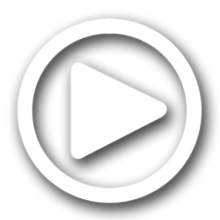
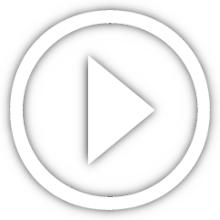
fix

diff --git a/css/stylish-portfolio.min.css b/css/stylish-portfolio.min.css
@@ -2,4 +2,4 @@
  * Start Bootstrap - Stylish Portfolio v5.0.7 (https://startbootstrap.com/template-overviews/stylish-portfolio)
  * Copyright 2013-2021 Start Bootstrap
  * Licensed under MIT (https://github.com/BlackrockDigital/startbootstrap-stylish-portfolio/blob/master/LICENSE)
- */@font-face{font-family:"Brutal Type";src:url("../fonts/Brutal Type.eot");src:url("../fonts/Brutal Type.eot?#iefix") format("embedded-opentype"),url("../fonts/Brutal Type.woff2") format("woff2"),url("../fonts/Brutal Type.woff") format("woff"),url("../fonts/Brutal Type.ttf") format("truetype"),url("../fonts/Brutal Type.svg#Brutal Type") format("svg")}body,html{width:100%;height:100%}body{font-family:'Brutal Type';background-color:#222}.btn-xl{padding:1.25rem 2.5rem}.content-section{padding-top:7.5rem;padding-bottom:7.5rem;position:relative;background-color:#fff}.content-section-heading h2{font-size:3rem}.content-section-heading h3{font-size:1rem;text-transform:uppercase}h1,h2,h3,h4,h5,h6{font-weight:900}.text-faded{color:rgba(255,255,255,.7)}.map{height:30rem}@media (max-width:992px){.map{height:75%}}.map iframe{pointer-events:none}.scroll-to-top{position:fixed;right:15px;bottom:15px;display:none;width:50px;height:50px;text-align:center;color:#fff;background:rgba(52,58,64,.5);line-height:45px}.scroll-to-top:focus,.scroll-to-top:hover{color:#fff}.scroll-to-top:hover{background:#343a40}.scroll-to-top i{font-weight:800}video{position:fixed;top:0;z-index:0;min-height:100vh;min-width:100%}.visible{display:initial!important;transition:ease 3s}.masthead{position:relative;display:table;width:100%;height:auto;padding-top:8rem;padding-bottom:8rem;overflow:hidden;color:#fff;height:100vh}.masthead h1{font-size:2.5rem;padding:0;font-weight:300;-webkit-animation:5s fadeIn;animation:5s fadeIn;-webkit-animation-fill-mode:forwards;animation-fill-mode:forwards;opacity:0}.masthead .logo img{width:250px;-webkit-animation:2.5s fadeIn;animation:2.5s fadeIn;-webkit-animation-fill-mode:forwards;animation-fill-mode:forwards;opacity:0}.masthead .scroll-trigger{position:absolute;left:0;right:0;bottom:0}.masthead .scroll-trigger p{font-size:24px;font-weight:300}.masthead .js-scroll-trigger{transition:all .2s ease,visibility 0s;border-radius:0;background:rgba(247,195,49,.8);width:51px;height:51px;display:inline-block;color:#000;padding-top:15px}.masthead .js-scroll-trigger:hover{color:#fff;padding-top:20px}@media (min-width:992px){.masthead h1{font-size:4rem;text-align:left;width:50%}.masthead .logo{text-align:right}.masthead .top-border{width:25%;border-top:3px solid;-webkit-animation:5s fadeIn;animation:5s fadeIn;-webkit-animation-fill-mode:forwards;animation-fill-mode:forwards;opacity:0}}@-webkit-keyframes fadeIn{50%{opacity:0}100%{opacity:1}}@keyframes fadeIn{50%{opacity:0}100%{opacity:1}}h1,h2,h3{font-weight:300}h2{font-size:36px;display:inline-block;margin-bottom:30px}.heading-border{border-bottom:10px solid rgba(247,195,49,.7);display:block;width:80%;margin-top:-14px}#buro{padding-bottom:0}#buro .bg-image{background-image:url(../img/snapshot.png);background-size:cover;background-position:center center}#buro .text-box{background:#fff;opacity:.9;font-size:16px;padding:70px 30px 70px 30px}.play-button{margin:auto;display:block;width:220px;padding:50% 0}#map{padding:3rem 0}#map .section-text{margin:7rem 0}@media (max-width:768px){#map .section-text{margin-top:15rem;margin-bottom:3rem}}#map .container{background-image:url(../img/map.png);background-size:70%;background-position:left;background-repeat:no-repeat}@media (max-width:768px){#map .container{background-size:100%;background-position-y:2rem}}#map .container img{height:40px;display:inline-block;margin:0 8px}#sidebar-wrapper{position:fixed;z-index:2;right:0;width:250px;height:100%;transition:all .4s ease 0s;transform:translateX(250px);background:rgba(85,95,99,.7);border-left:1px solid rgba(255,255,255,.1)}.sidebar-nav{position:absolute;top:0;width:250px;margin:0;padding:0;list-style:none;margin-top:100px;text-transform:uppercase;font-size:22px}.sidebar-nav li.sidebar-nav-item a{display:block;text-decoration:none;color:#fff;padding:15px 45px}.sidebar-nav li a:hover{text-decoration:none;color:#f3c331}.sidebar-nav li a:active,.sidebar-nav li a:focus{text-decoration:none}.sidebar-nav>.sidebar-brand{font-size:1.2rem;background:rgba(52,58,64,.1);height:80px;line-height:50px;padding-top:15px;padding-bottom:15px;padding-left:15px}.sidebar-nav>.sidebar-brand a{color:#fff}.sidebar-nav>.sidebar-brand a:hover{color:#fff;background:0 0}#sidebar-wrapper.active{right:250px;width:250px;transition:all .4s ease 0s}.menu-toggle{position:fixed;right:4px;top:4px;width:50px;height:50px;text-align:center;color:#fff;line-height:50px;z-index:1040}.menu-toggle:focus,.menu-toggle:hover{color:#fff}.social-icons{position:fixed;right:15px;width:50px;height:50px;text-align:center;color:#fff;background:rgba(52,58,64,.5);line-height:50px;z-index:5}.social-icons.instagram{bottom:125px}.social-icons.linkedin{bottom:70px}.social-icons:hover{background:#343a40}.social-icons:focus,.social-icons:hover{color:#fff}.language-menu{position:fixed;right:60px;top:17px;color:#fff;z-index:2000;list-style:none;color:#fff}.language-menu a{color:inherit}.language-menu a:hover{color:inherit}.language-menu a:active{color:inherit}.language-menu a.current{color:rgba(247,195,49,.8)}#kompetenzen{padding-bottom:1rem}#kompetenzen a,#kompetenzen a:hover{text-decoration:none;color:#000}#kompetenzen h4{font-size:20px;font-weight:900}#kompetenzen .description{margin-top:60px}#kompetenzen .description h4{font-size:1rem}#kompetenzen p{font-weight:300}#kompetenzen .service-icon+h4{font-size:1.2rem;transition:all .2s}#kompetenzen .collapsed .service-icon+h4{font-size:1rem;margin-bottom:12px}#kompetenzen .service-icon+h4+.underline{border-bottom:10px solid #f9d56e;width:100px;display:inline-block;transition:all .2s}#kompetenzen .collapsed .service-icon+h4+.underline{width:0}#kompetenzen .service-icon.modellierung{background-image:url(../img/modellierung.png)}#kompetenzen .service-icon.research{background-image:url(../img/management.png)}#kompetenzen .service-icon.innovation{background-image:url(../img/innovation.png)}#kompetenzen .accordion{margin-top:30px;margin-bottom:50px}@media screen and (min-width:768px){#kompetenzen .accordion .description{width:300%}#kompetenzen #collapseTwo{margin-left:-100%}#kompetenzen #collapseThree{margin-left:-200%}}@-webkit-keyframes pulse{0%{-webkit-transform:scale(1)}50%{-webkit-transform:scale(.85);opacity:1}100%{-webkit-transform:scale(1)}}@keyframes pulse{0%{transform:scale(1)}50%{transform:scale(.85);opacity:1}100%{transform:scale(1)}}.service-icon{background-color:#fff;color:#000;display:block;line-height:7.5rem;font-size:2.25rem;border:5px solid #000;padding:28px;width:200px;background-size:130px;height:200px;background-repeat:no-repeat;background-position:center center;transition:transform .5s ease}.service-icon img{width:100%}.collapsed .service-icon:hover{-webkit-animation:pulse .3s ease-in-out;animation:pulse .3s ease-in-out}.callout{padding:15rem 0;background:linear-gradient(90deg,rgba(255,255,255,.1) 0,rgba(255,255,255,.1) 100%),url(../img/bg-callout.jpg);background-position:center center;background-repeat:no-repeat;background-size:cover}.callout h2{font-size:3.5rem;font-weight:700;display:block;max-width:30rem}#referenzen{padding-top:7rem;padding-bottom:5em}.portfolio-item{display:block;position:relative;overflow:hidden;max-width:530px;margin:auto auto 1rem}.portfolio-item .caption{z-index:1}.portfolio-item .caption .caption-content{color:#000;padding:15px 0}.portfolio-item .caption .caption-content h2{font-size:22px;font-weight:900;margin-bottom:0}.portfolio-item .caption .caption-content p{font-weight:400;font-size:14px}@media (min-width:992px){.portfolio-item{max-width:none;margin:0}.portfolio-item .caption .caption-content{transition:opacity .25s}}.portfolio-item:hover{text-decoration:none!important}.modal-header{border-bottom:none}.modal-header .close{font-size:3rem;font-weight:100;line-height:1;color:#fff;text-shadow:0 1px 0 #000}.modal-open .modal{padding-right:0!important;background-color:#0d2130!important}.modal-dialog{margin:0;max-width:none;background-color:#0d2130!important;width:100%;top:0;bottom:0;position:absolute}.modal-backdrop{background-color:#0d2130!important}.modal-content{background-color:#0d2130!important;background-clip:initial;border:none;border-radius:0;color:#fff;height:100%}.carousel-inner{width:80%;margin:auto;margin-bottom:50px}.carousel-control-next,.carousel-control-prev{width:10%;font-size:1.5rem}.carousel-indicators{bottom:-50px}.modal-body .description h4{font-size:14px;text-transform:uppercase;font-weight:900}.modal-body .description p{font-size:16px;font-weight:100}.modal-body .description hr{margin:1rem 0;border:3px solid rgba(255,255,255,.5);width:50px}.webcam{height:100px;width:100px;background-color:#e8e100;display:block;border-radius:50%;position:absolute;text-align:center;box-shadow:0 0 10px rgba(10,10,10,.2);z-index:10}.webcam span{display:table-cell;height:100px;vertical-align:middle;transform:rotate(12deg);text-decoration:underline;color:#343436}footer.footer{padding-top:2rem;padding-bottom:2rem;position:relative;background-color:#808f95}footer.footer h2{text-transform:uppercase}footer.footer .address,footer.footer .phone{text-align:center}footer.footer .social-link{display:block;height:4rem;width:4rem;line-height:4.3rem;font-size:1.5rem;background-color:#1d809f;transition:background-color .15s ease-in-out;box-shadow:0 3px 3px 0 rgba(0,0,0,.1)}footer.footer .social-link:hover{background-color:#155d74;text-decoration:none}@media (min-width:576px){footer.footer{font-weight:300}footer.footer .address{text-align:right}footer.footer .phone{text-align:left}}a{color:#1d809f}a:active,a:focus,a:hover{color:#155d74}.btn-primary{background-color:#1d809f!important;border-color:#1d809f!important;color:#fff!important}.btn-primary:active,.btn-primary:focus,.btn-primary:hover{background-color:#155d74!important;border-color:#155d74!important}.btn-secondary{background-color:#ecb807!important;border-color:#ecb807!important;color:#fff!important}.btn-secondary:active,.btn-secondary:focus,.btn-secondary:hover{background-color:#ba9106!important;border-color:#ba9106!important}.btn-dark{color:#fff!important}.btn{box-shadow:0 3px 3px 0 rgba(0,0,0,.1);font-weight:700}.bg-primary{background-color:#1d809f!important}.bg-dark{background-color:#808f95!important}.text-primary{color:#1d809f!important}.text-secondary{color:#ecb807!important}.collapsing{transition:none;height:initial}
+ */@font-face{font-family:"Brutal Type";src:url("../fonts/Brutal Type.eot");src:url("../fonts/Brutal Type.eot?#iefix") format("embedded-opentype"),url("../fonts/Brutal Type.woff2") format("woff2"),url("../fonts/Brutal Type.woff") format("woff"),url("../fonts/Brutal Type.ttf") format("truetype"),url("../fonts/Brutal Type.svg#Brutal Type") format("svg")}body,html{width:100%;height:100%}body{font-family:'Brutal Type';background-color:#222}.btn-xl{padding:1.25rem 2.5rem}.content-section{padding-top:7.5rem;padding-bottom:7.5rem;position:relative;background-color:#fff}.content-section-heading h2{font-size:3rem}.content-section-heading h3{font-size:1rem;text-transform:uppercase}h1,h2,h3,h4,h5,h6{font-weight:900}.text-faded{color:rgba(255,255,255,.7)}.map{height:30rem}@media (max-width:992px){.map{height:75%}}.map iframe{pointer-events:none}.scroll-to-top{position:fixed;right:15px;bottom:15px;display:none;width:50px;height:50px;text-align:center;color:#fff;background:rgba(52,58,64,.5);line-height:45px}.scroll-to-top:focus,.scroll-to-top:hover{color:#fff}.scroll-to-top:hover{background:#343a40}.scroll-to-top i{font-weight:800}video{position:fixed;top:0;z-index:0;min-height:100vh;min-width:100%}.visible{display:initial!important;transition:ease 3s}.masthead{position:relative;display:table;width:100%;height:auto;padding-top:8rem;padding-bottom:8rem;overflow:hidden;color:#fff;height:100vh}.masthead h1{font-size:2.5rem;padding:0;font-weight:300;-webkit-animation:5s fadeIn;animation:5s fadeIn;-webkit-animation-fill-mode:forwards;animation-fill-mode:forwards;opacity:0}.masthead .logo img{width:250px;-webkit-animation:2.5s fadeIn;animation:2.5s fadeIn;-webkit-animation-fill-mode:forwards;animation-fill-mode:forwards;opacity:0}.masthead .scroll-trigger{position:absolute;left:0;right:0;bottom:0}.masthead .scroll-trigger p{font-size:24px;font-weight:300}.masthead .js-scroll-trigger{transition:all .2s ease,visibility 0s;border-radius:0;background:rgba(247,195,49,.8);width:51px;height:51px;display:inline-block;color:#000;padding-top:15px}.masthead .js-scroll-trigger:hover{color:#fff;padding-top:20px}@media (min-width:992px){.masthead h1{font-size:4rem;text-align:left;width:50%}.masthead .logo{text-align:right}.masthead .top-border{width:25%;border-top:3px solid;-webkit-animation:5s fadeIn;animation:5s fadeIn;-webkit-animation-fill-mode:forwards;animation-fill-mode:forwards;opacity:0}}@-webkit-keyframes fadeIn{50%{opacity:0}100%{opacity:1}}@keyframes fadeIn{50%{opacity:0}100%{opacity:1}}h1,h2,h3{font-weight:300}h2{font-size:36px;display:inline-block;margin-bottom:30px}.heading-border{border-bottom:10px solid rgba(247,195,49,.7);display:block;width:80%;margin-top:-14px}#buro{padding-bottom:0}#buro .bg-image{background-image:url(../img/snapshot.png);background-size:cover;background-position:center center}#buro .text-box{background:#fff;opacity:.9;font-size:16px;padding:70px 30px 70px 30px}.play-button{margin:auto;display:block;width:150px;padding:10% 0;opacity:.8}.play-button img{width:150px}.play-button:hover{opacity:1}@media (min-width:992px){.play-button{padding:75% 0}}#map{padding:3rem 0}#map .section-text{margin:7rem 0}@media (max-width:768px){#map .section-text{margin-top:15rem;margin-bottom:3rem}}#map .container{background-image:url(../img/map.png);background-size:70%;background-position:left;background-repeat:no-repeat}@media (max-width:768px){#map .container{background-size:100%;background-position-y:2rem}}#map .container img{height:40px;display:inline-block;margin:0 8px}#sidebar-wrapper{position:fixed;z-index:2;right:0;width:250px;height:100%;transition:all .4s ease 0s;transform:translateX(250px);background:rgba(85,95,99,.7);border-left:1px solid rgba(255,255,255,.1)}.sidebar-nav{position:absolute;top:0;width:250px;margin:0;padding:0;list-style:none;margin-top:100px;text-transform:uppercase;font-size:22px}.sidebar-nav li.sidebar-nav-item a{display:block;text-decoration:none;color:#fff;padding:15px 45px}.sidebar-nav li a:hover{text-decoration:none;color:#f3c331}.sidebar-nav li a:active,.sidebar-nav li a:focus{text-decoration:none}.sidebar-nav>.sidebar-brand{font-size:1.2rem;background:rgba(52,58,64,.1);height:80px;line-height:50px;padding-top:15px;padding-bottom:15px;padding-left:15px}.sidebar-nav>.sidebar-brand a{color:#fff}.sidebar-nav>.sidebar-brand a:hover{color:#fff;background:0 0}#sidebar-wrapper.active{right:250px;width:250px;transition:all .4s ease 0s}.menu-toggle{position:fixed;right:4px;top:4px;width:50px;height:50px;text-align:center;color:#fff;line-height:50px;z-index:1040}.menu-toggle:focus,.menu-toggle:hover{color:#fff}.social-icons{position:fixed;right:15px;width:50px;height:50px;text-align:center;color:#fff;background:rgba(52,58,64,.5);line-height:50px;z-index:5}.social-icons.instagram{bottom:125px}.social-icons.linkedin{bottom:70px}.social-icons:hover{background:#343a40}.social-icons:focus,.social-icons:hover{color:#fff}.language-menu{position:fixed;right:60px;top:17px;color:#fff;z-index:2000;list-style:none;color:#fff}.language-menu a{color:inherit}.language-menu a:hover{color:inherit}.language-menu a:active{color:inherit}.language-menu a.current{color:rgba(247,195,49,.8)}#kompetenzen{padding-bottom:1rem}#kompetenzen a,#kompetenzen a:hover{text-decoration:none;color:#000}#kompetenzen h4{font-size:20px;font-weight:900}#kompetenzen .description{margin-top:60px}#kompetenzen .description h4{font-size:1rem}#kompetenzen p{font-weight:300}#kompetenzen .service-icon+h4{font-size:1.2rem;transition:all .2s}#kompetenzen .collapsed .service-icon+h4{font-size:1rem;margin-bottom:12px}#kompetenzen .service-icon+h4+.underline{border-bottom:10px solid #f9d56e;width:100px;display:inline-block;transition:all .2s}#kompetenzen .collapsed .service-icon+h4+.underline{width:0}#kompetenzen .service-icon.modellierung{background-image:url(../img/modellierung.png)}#kompetenzen .service-icon.research{background-image:url(../img/management.png)}#kompetenzen .service-icon.innovation{background-image:url(../img/innovation.png)}#kompetenzen .accordion{margin-top:30px;margin-bottom:50px}@media screen and (min-width:768px){#kompetenzen .accordion .description{width:300%}#kompetenzen #collapseTwo{margin-left:-100%}#kompetenzen #collapseThree{margin-left:-200%}}@-webkit-keyframes pulse{0%{-webkit-transform:scale(1)}50%{-webkit-transform:scale(.85);opacity:1}100%{-webkit-transform:scale(1)}}@keyframes pulse{0%{transform:scale(1)}50%{transform:scale(.85);opacity:1}100%{transform:scale(1)}}.service-icon{background-color:#fff;color:#000;display:block;line-height:7.5rem;font-size:2.25rem;border:5px solid #000;padding:28px;width:200px;background-size:130px;height:200px;background-repeat:no-repeat;background-position:center center;transition:transform .5s ease}.service-icon img{width:100%}.collapsed .service-icon:hover{-webkit-animation:pulse .3s ease-in-out;animation:pulse .3s ease-in-out}.callout{padding:15rem 0;background:linear-gradient(90deg,rgba(255,255,255,.1) 0,rgba(255,255,255,.1) 100%),url(../img/bg-callout.jpg);background-position:center center;background-repeat:no-repeat;background-size:cover}.callout h2{font-size:3.5rem;font-weight:700;display:block;max-width:30rem}#referenzen{padding-top:7rem;padding-bottom:5em}.portfolio-item{display:block;position:relative;overflow:hidden;max-width:530px;margin:auto auto 1rem}.portfolio-item .caption{z-index:1}.portfolio-item .caption .caption-content{color:#000;padding:15px 0}.portfolio-item .caption .caption-content h2{font-size:22px;font-weight:900;margin-bottom:0}.portfolio-item .caption .caption-content p{font-weight:400;font-size:14px}@media (min-width:992px){.portfolio-item{max-width:none;margin:0}.portfolio-item .caption .caption-content{transition:opacity .25s}}.portfolio-item:hover{text-decoration:none!important}.modal-header{border-bottom:none}.modal-header .close{font-size:3rem;font-weight:100;line-height:1;color:#fff;text-shadow:0 1px 0 #000}.modal-open .modal{padding-right:0!important;background-color:#0d2130!important}.modal-dialog{margin:0;max-width:none;background-color:#0d2130!important;width:100%;top:0;bottom:0;position:absolute}.modal-backdrop{background-color:#0d2130!important}.modal-content{background-color:#0d2130!important;background-clip:initial;border:none;border-radius:0;color:#fff;height:100%}.carousel-inner{width:80%;margin:auto;margin-bottom:50px}.carousel-control-next,.carousel-control-prev{width:10%;font-size:1.5rem}.carousel-indicators{bottom:-50px}.modal-body .description h4{font-size:14px;text-transform:uppercase;font-weight:900}.modal-body .description p{font-size:16px;font-weight:100}.modal-body .description hr{margin:1rem 0;border:3px solid rgba(255,255,255,.5);width:50px}.webcam{height:100px;width:100px;background-color:#e8e100;display:block;border-radius:50%;position:absolute;text-align:center;box-shadow:0 0 10px rgba(10,10,10,.2);z-index:10}.webcam span{display:table-cell;height:100px;vertical-align:middle;transform:rotate(12deg);text-decoration:underline;color:#343436}footer.footer{padding-top:2rem;padding-bottom:2rem;position:relative;background-color:#808f95}footer.footer h2{text-transform:uppercase}footer.footer .address,footer.footer .phone{text-align:center}footer.footer .social-link{display:block;height:4rem;width:4rem;line-height:4.3rem;font-size:1.5rem;background-color:#1d809f;transition:background-color .15s ease-in-out;box-shadow:0 3px 3px 0 rgba(0,0,0,.1)}footer.footer .social-link:hover{background-color:#155d74;text-decoration:none}@media (min-width:576px){footer.footer{font-weight:300}footer.footer .address{text-align:right}footer.footer .phone{text-align:left}}a{color:#1d809f}a:active,a:focus,a:hover{color:#155d74}.btn-primary{background-color:#1d809f!important;border-color:#1d809f!important;color:#fff!important}.btn-primary:active,.btn-primary:focus,.btn-primary:hover{background-color:#155d74!important;border-color:#155d74!important}.btn-secondary{background-color:#ecb807!important;border-color:#ecb807!important;color:#fff!important}.btn-secondary:active,.btn-secondary:focus,.btn-secondary:hover{background-color:#ba9106!important;border-color:#ba9106!important}.btn-dark{color:#fff!important}.btn{box-shadow:0 3px 3px 0 rgba(0,0,0,.1);font-weight:700}.bg-primary{background-color:#1d809f!important}.bg-dark{background-color:#808f95!important}.text-primary{color:#1d809f!important}.text-secondary{color:#ecb807!important}.collapsing{transition:none;height:initial}

diff --git a/index.html b/index.html
@@ -108,6 +108,9 @@
         <div class="bg-image">
             <div class="container">
                 <div class="row">
+                    <div class="col-lg-6">
+                        <a href="#playerModal" data-toggle="modal" data-target="#playerModal" class="play-button"><img src="/img/play.png"></a>
+                    </div>
                     
                     <div class="col-lg-5 offset-lg-1 text-box">
                         <h3>Wer wir sind:</h3>
@@ -120,9 +123,7 @@
                         </p>
                     </div>
                     
-                    <div class="col-lg-6">
-                        <a href="#playerModal" data-toggle="modal" data-target="#playerModal" class="play-button"><img src="/img/play.png"></a>
-                    </div>
+                    
                     
                 </div>
             </div>
@@ -607,7 +608,7 @@
     
     <script>
         $('#playerModal').on('show.bs.modal', function () {
-            $('.modal-body', this).html('<div style="padding:40% 0 0 0;position:relative;">' + 
+            $('.modal-body', this).html('<div>' + 
               '<iframe src="https://player.vimeo.com/video/565528229?autoplay=1&byline=0&portrait=0" style="position:absolute;top:0;left:0;width:100%;height:100%;" frameborder="0" allow="autoplay; fullscreen; picture-in-picture" allowfullscreen></iframe>' + 
               '</div>');
         });

diff --git a/scss/_masthead.scss b/scss/_masthead.scss
@@ -144,8 +144,23 @@ h2 {
 .play-button {
     margin: auto;
     display: block;
-    width: 220px;
-    padding: 50% 0;
+    width: 150px;
+    padding: 10% 0;
+    opacity: 0.8;
+}
+
+.play-button img { 
+    width: 150px;
+}
+
+.play-button:hover {
+    opacity: 1;
+} 
+
+@media (min-width: 992px) {
+    .play-button { 
+        padding: 75% 0;
+    }
 }
 
 #map {

diff --git a/css/stylish-portfolio.css b/css/stylish-portfolio.css
@@ -248,8 +248,23 @@ h2 {
 .play-button {
   margin: auto;
   display: block;
-  width: 220px;
-  padding: 50% 0;
+  width: 150px;
+  padding: 10% 0;
+  opacity: 0.8;
+}
+
+.play-button img {
+  width: 150px;
+}
+
+.play-button:hover {
+  opacity: 1;
+}
+
+@media (min-width: 992px) {
+  .play-button {
+    padding: 75% 0;
+  }
 }
 
 #map {
